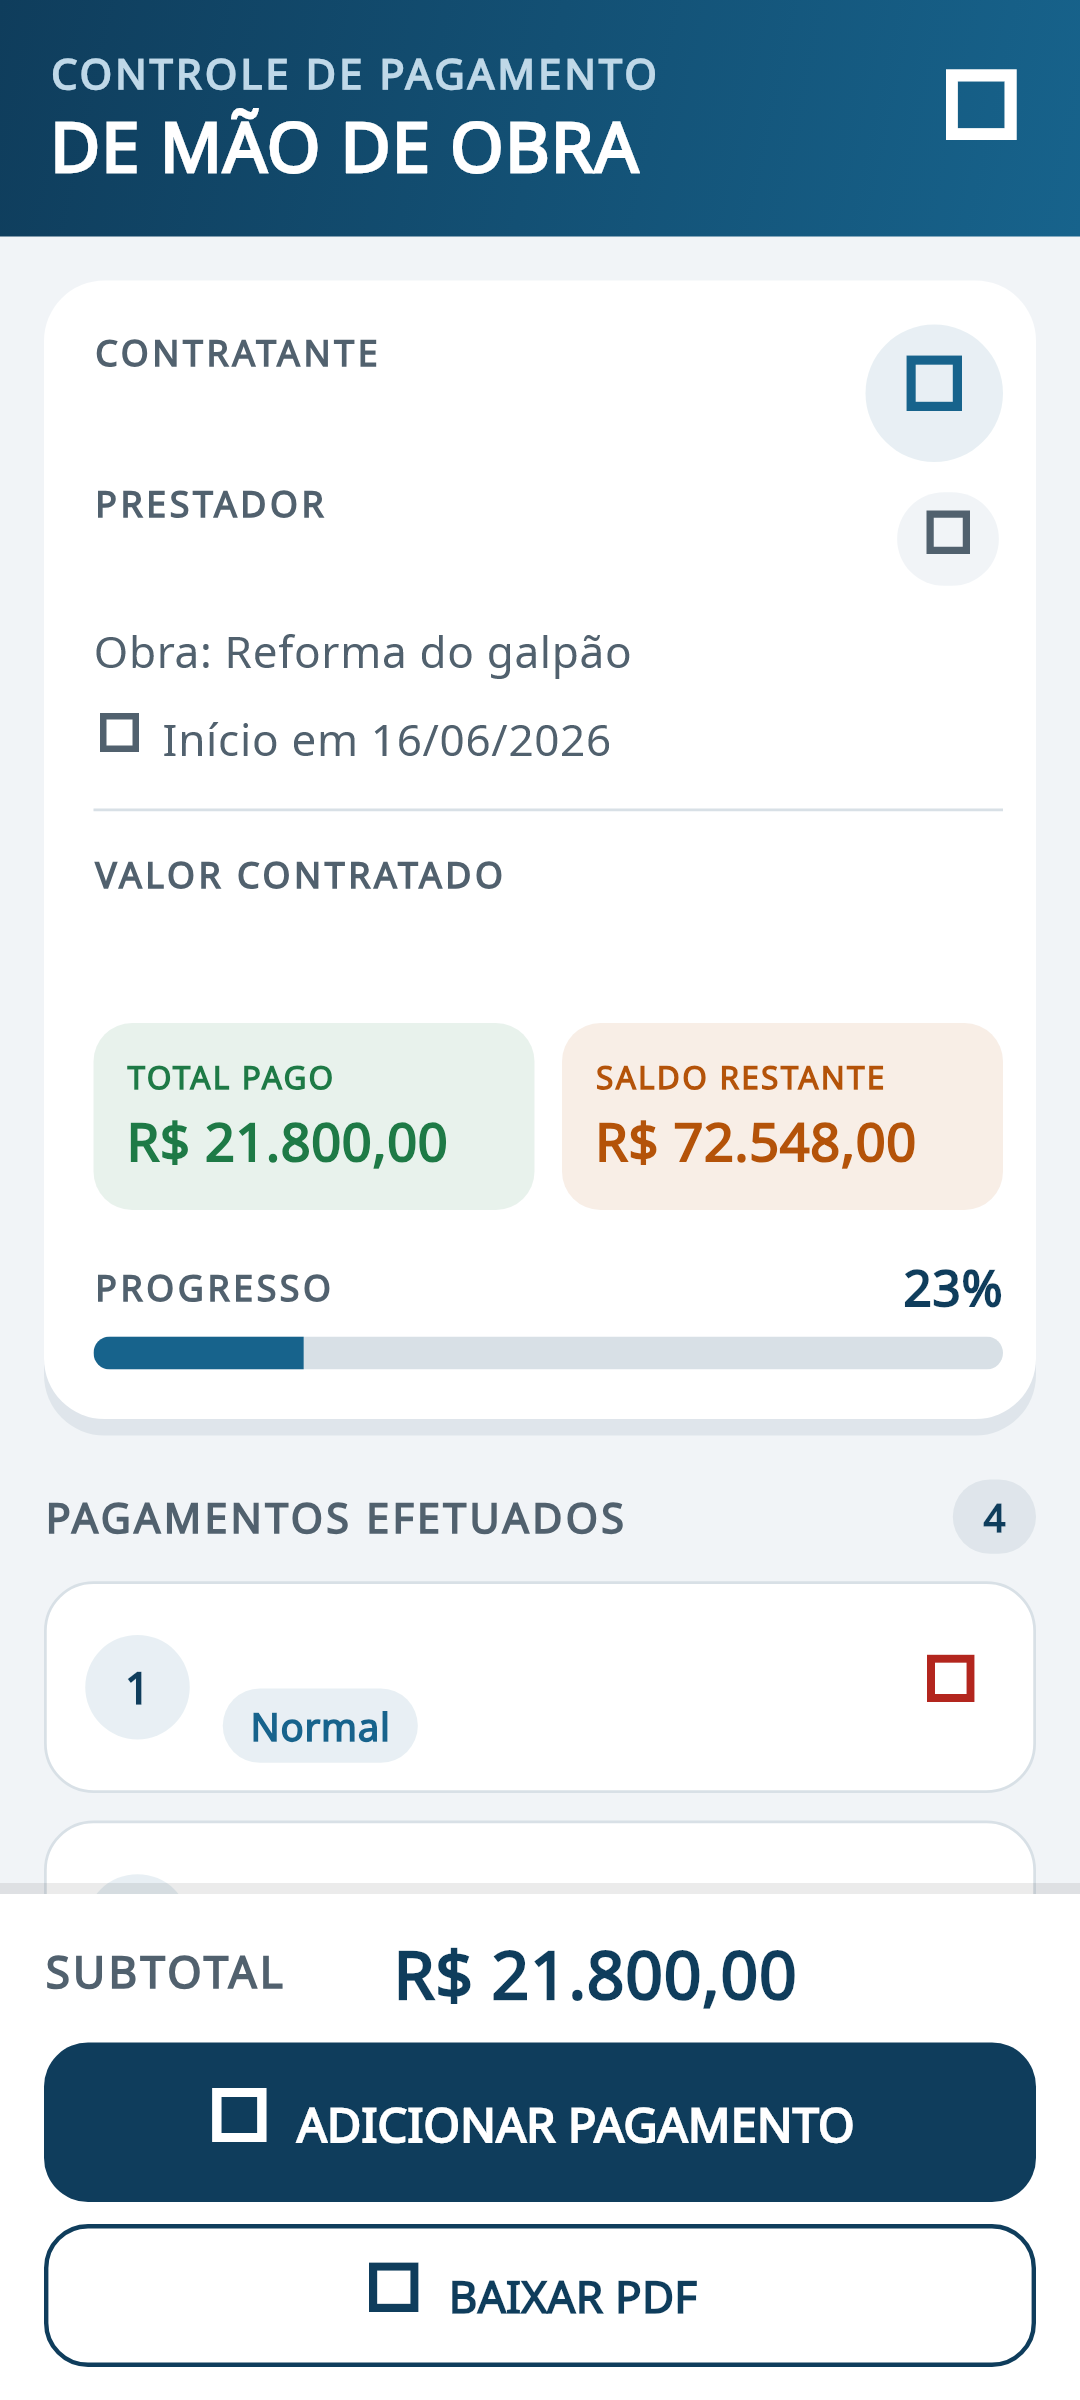
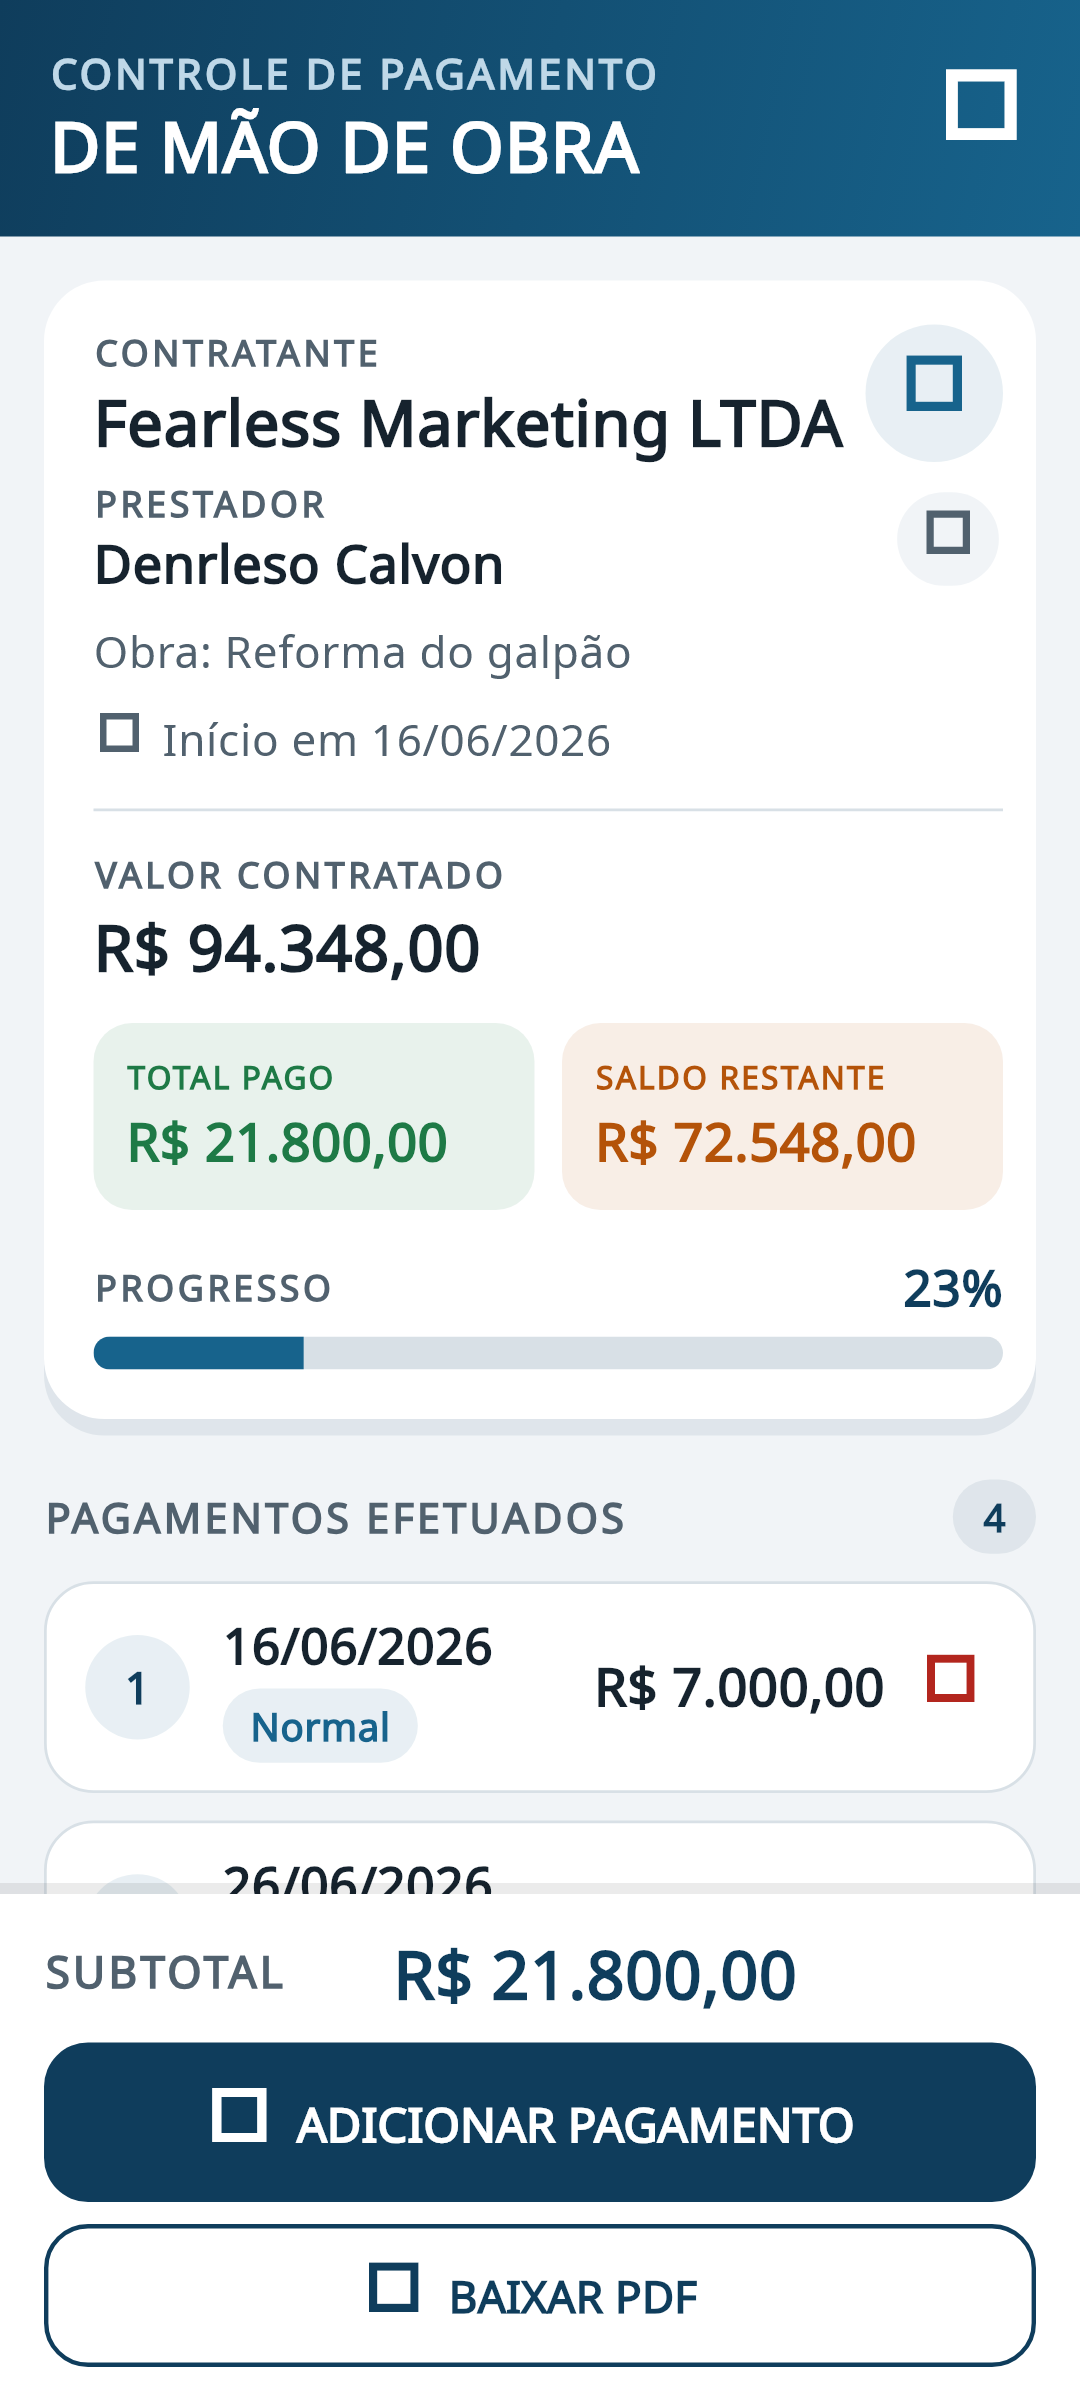
fix: nomes e valores invisiveis por falta de cor no tema
Os estilos bodyLarge, bodyMedium, titleLarge e titleMedium eram recriados sem cor e o texto herdava cor nula. Agora usam textoForte. Teste de regressao e capturas atualizadas. Versao 1.0.1.

diff --git a/lib/ui/tema.dart b/lib/ui/tema.dart
@@ -25,12 +25,26 @@ ThemeData construirTema() {
     textTheme: base.textTheme
         .apply(bodyColor: textoForte, displayColor: textoForte)
         .copyWith(
-          bodyLarge: const TextStyle(fontSize: 18, height: 1.35),
-          bodyMedium: const TextStyle(fontSize: 17, height: 1.35),
-          titleLarge:
-              const TextStyle(fontSize: 24, fontWeight: FontWeight.w800),
-          titleMedium:
-              const TextStyle(fontSize: 20, fontWeight: FontWeight.w700),
+          bodyLarge: const TextStyle(
+            fontSize: 18,
+            height: 1.35,
+            color: textoForte,
+          ),
+          bodyMedium: const TextStyle(
+            fontSize: 17,
+            height: 1.35,
+            color: textoForte,
+          ),
+          titleLarge: const TextStyle(
+            fontSize: 24,
+            fontWeight: FontWeight.w800,
+            color: textoForte,
+          ),
+          titleMedium: const TextStyle(
+            fontSize: 20,
+            fontWeight: FontWeight.w700,
+            color: textoForte,
+          ),
         ),
     appBarTheme: const AppBarTheme(
       backgroundColor: azulEscuro,

diff --git a/test/app_test.dart b/test/app_test.dart
@@ -1,6 +1,8 @@
 import 'package:controle_mao_de_obra/data/repositorio.dart';
 import 'package:controle_mao_de_obra/main.dart';
+import 'package:controle_mao_de_obra/ui/tema.dart';
 import 'package:flutter/material.dart';
+import 'package:flutter/rendering.dart';
 import 'package:flutter_test/flutter_test.dart';
 import 'package:sqflite/sqflite.dart' as sqflite;
 import 'package:sqflite_common_ffi/sqflite_ffi.dart';
@@ -52,6 +54,15 @@ void main() {
 
     expect(find.text('Fearless Marketing LTDA'), findsOneWidget);
     expect(find.text('R\$ 94.348,00'), findsWidgets);
+    expect(
+      tester
+          .renderObject<RenderParagraph>(find.text('Fearless Marketing LTDA'))
+          .text
+          .style
+          ?.color,
+      textoForte,
+      reason: 'nome e valores precisam sair na cor de texto, não invisíveis',
+    );
 
     await tester.tap(find.text('ADICIONAR PAGAMENTO'));
     await tester.pumpAndSettle();

diff --git a/README.md b/README.md
@@ -7,7 +7,7 @@ com coluna de assinatura em branco.
 
 ## Baixar o aplicativo
 
-➡ **[Baixar o APK — Controle de Obra 1.0.0](https://github.com/Marcosvx96/controle-de-obra/releases/download/v1.0.0/Controle-de-Obra-v1.0.0.apk)**
+➡ **[Baixar o APK — Controle de Obra 1.0.1](https://github.com/Marcosvx96/controle-de-obra/releases/download/v1.0.1/Controle-de-Obra-v1.0.1.apk)**
 
 Também disponível na página de releases:
 <https://github.com/Marcosvx96/controle-de-obra/releases/latest>
